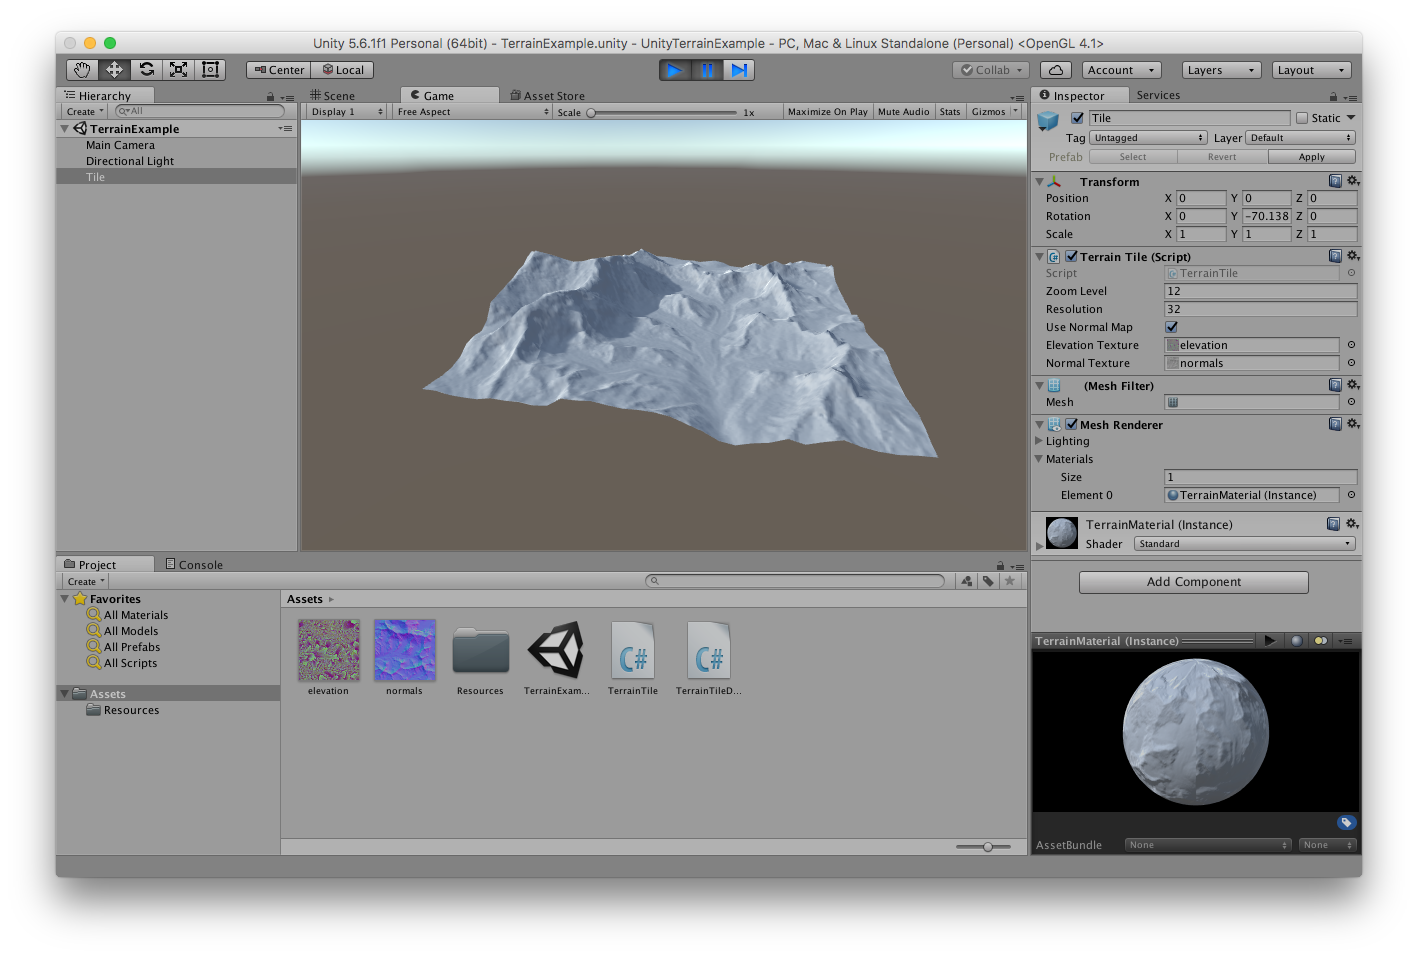
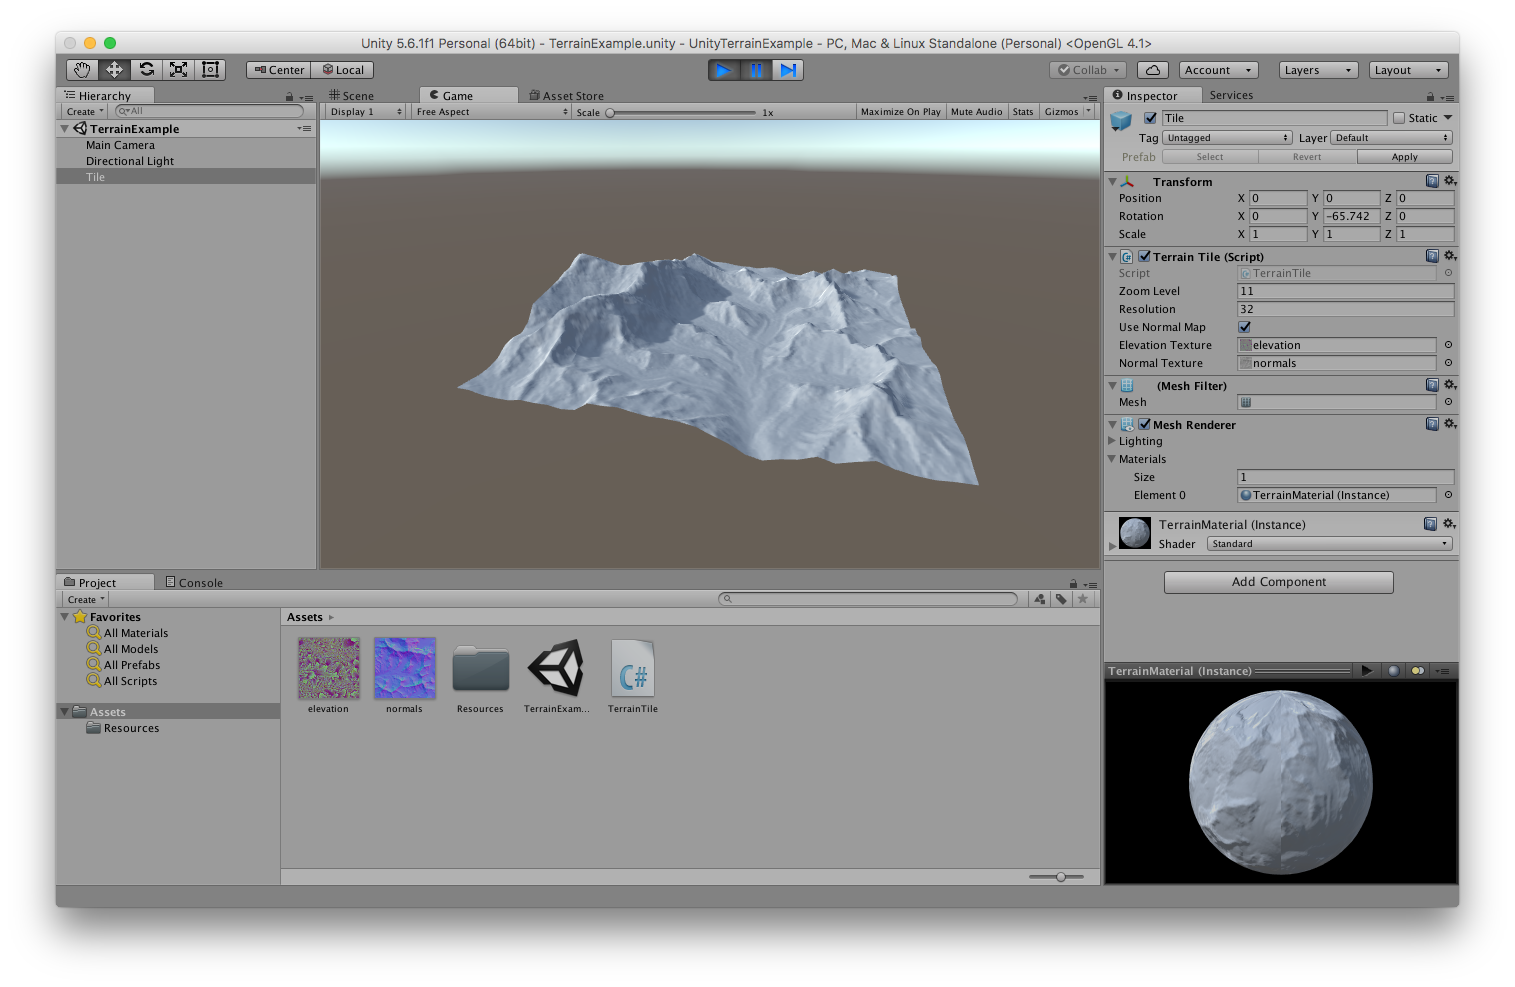
Update code comments, Screenshot, and README

Changed region(s): [[0.031, 0.0303, 0.9619, 0.9091], [0.2793, 0.2424, 0.6827, 0.5152], [0.4965, 0.3333, 0.5275, 0.3636]]

diff --git a/Assets/TerrainTile.cs b/Assets/TerrainTile.cs
@@ -16,9 +16,10 @@ public class TerrainTile : MonoBehaviour
     private int mResolution;
     private bool mUseNormalMap;
 
-    // When this GameObject is created, create an elevation mesh.
+    // Runs once when the GameObject is created.
     public void Start()
     {
+        // When this GameObject is created, create an elevation mesh.
         ApplyElevation();
     }
 
@@ -52,6 +53,7 @@ public class TerrainTile : MonoBehaviour
         mUseNormalMap = UseNormalMap;
     }
 
+    // Runs once per frame.
     public void Update()
     {
         // Rotate the model to see all the pretty lighting.

diff --git a/README.md b/README.md
@@ -1,5 +1,49 @@
-# unity-terrain-example
+# Unity Terrain Example
 
-This repository contains a Unity3D project that demonstrates how to show a shaded 3D mesh using data from the [Mapzen Terrain Tile Service](https://mapzen.com/documentation/terrain-tiles/).
+This is a Unity3D project that demonstrates how to show a shaded 3D mesh using data from the [Mapzen Terrain Tile Service](https://mapzen.com/documentation/terrain-tiles/).
 
 ![Screenshot.png](Screenshot.png)
+
+### [elevation.png](Assets/elevation.png)
+
+This is a tile of elevation data encoded as a PNG image in the "Terrarium" format: https://mapzen.com/documentation/terrain-tiles/formats/#terrarium
+
+Pay close attention to the _import settings_ used for this image in the Unity Editor:
+ - We need to access the data in this image from code running on the CPU (not the GPU), so the `Read/Write Enabled` option is checked.
+ - Since the image is not meant to be repeated spatially, the `Wrap Mode` option is set to `Clamp`.
+ - The file encodes data and not an actual image, we need to access the original pixel values from the file. Therefore, the `Filter Mode` option is set to `Point (no filter)`.
+ - Again, because we need to access the original pixel values, the `Compression` option is set to `None`.
+
+### [normals.png](Assets/normals.png)
+
+This is a tile of terrain normal vector data encoded as a PNG image in a fairly standard "normal map" format: https://mapzen.com/documentation/terrain-tiles/formats/#normal
+
+Mapzen's normal maps contain data in the alpha channel that encodes approximate elevation, but we don't use that here.
+
+Again, pay attention to the _import settings_:
+ - The `Texture Type` option is set to `Normal map`, enabling Unity to interpret the color values as normal vectors.
+ - The image is not meant to be repeated spatially, so `Wrap Mode` option is set to `Clamp`.
+
+### [TerrainExample.unity](Assets/TerrainExample.unity)
+
+This file contains a Unity "Scene", essentially everything in the `Hierarchy` view on the left of the Editor.
+
+### [TerrainMaterial.mat](Assets/TerrainMaterial.mat)
+
+This file contains a Unity "Material" that can be applied to rendered meshes. There's not much to this Material, it's almost exactly the default Material created from the `Assets` -> `Create` -> `Material` menu option. A few settings are changed:
+ - The `Albedo` option is set to a color, a light grey that I picked.
+ - The `Metallic` and `Smoothness` options are turned down to zero, I just happened to prefer the way that looked.
+ - The `Normal Map` option is set to the `normals.png` image.
+
+The only important option on the Material is the `Normal Map`. We will actually set the normal map for this Material _again_ with a script in the scene, but we _must_ have a Material using a normal map in our scene in order for Unity to package the Scene correctly in a build. This is a subtle restriction that caught me off guard when I first built the demo, but it is explained in the Unity docs if you know where to look: https://docs.unity3d.com/Manual/MaterialsAccessingViaScript.html
+
+### [TerrainTile.cs](Assets/TerrainTile.cs)
+
+This is a C# script that we attach to a GameObject in our Unity Scene to do all the real work of creating the terrain mesh. Take a look at the comments in the file to learn how it works.
+
+### [Tile.prefab](Assets/Tile.prefab)
+
+This is a Unity Prefab, essentially a blueprint for creating GameObjects with a pre-configured set of components. This Prefab has three components: a Mesh Filter, a Mesh Renderer, and our Terrain Tile script.
+ - The Mesh Renderer component has one entry in its `Materials` option, our `TerrainMaterial` asset.
+ - The Mesh Filter component has no options set, because we generate the mesh itself at run-time.
+ - The Terrain Tile script has a few options. The `Zoom Level` option should be set to the zoom level of the elevation and normal tile images. The `Resolution` option determines how many vertices will be used to build the terrain mesh. The `Use Normal Map` option sets whether the mesh lighting will use our normal map image or use approximate normal vectors generated from the vertex positions. Try changing `Resolution` and `Use Normal Map` while the scene is playing!
